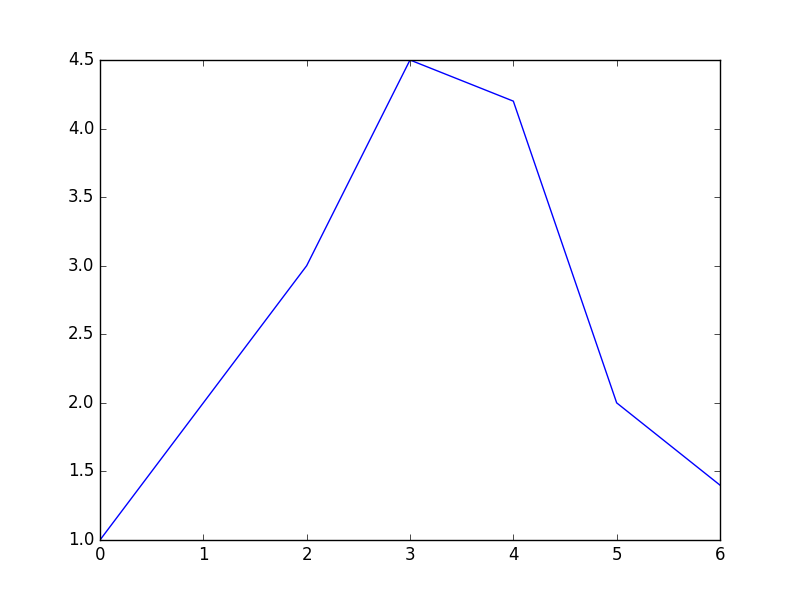
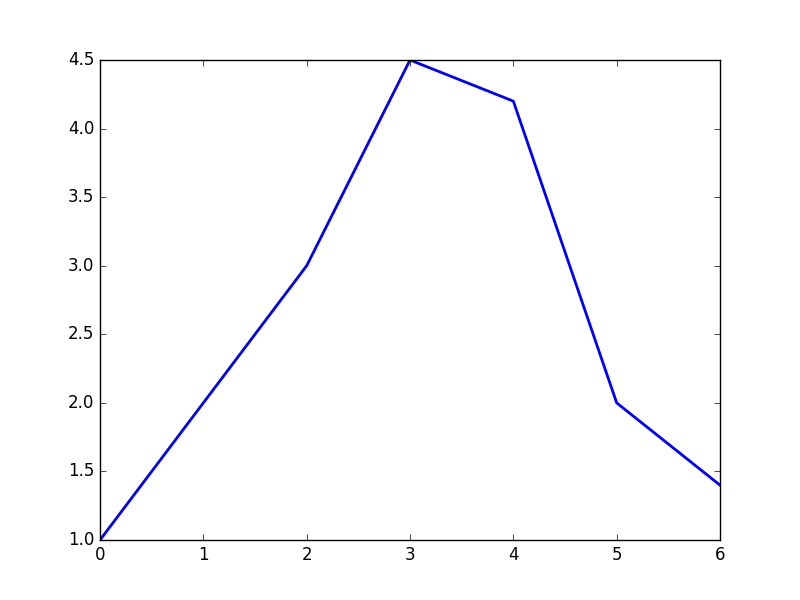
commit before fitbit changes

diff --git a/combined_strava.py b/combined_strava.py
@@ -11,6 +11,7 @@ import sys
 if os.name != 'posix':
     sys.exit('platform not supported')
 import psutil
+import logging
 
 from datetime import datetime
 from oled.device import ssd1306, sh1106
@@ -19,10 +20,6 @@ from PIL import ImageDraw, ImageFont
 from stravalib import Client
 from stravalib import unithelper
 from datetime import datetime, timedelta
-
-# Client ID: 10784
-# Client Secret:        816fa1e5705955d43f044687aee60fbba8cc24ec
-# Your Access Token:    0c293900673bf7ccf80180dfd3553a54fb8d9542
 
 ctd = 0
 ctc = 0
@@ -38,7 +35,7 @@ def greet():
 def calculate_stats():
 	global ctd, ctc, rtd, rtc, prbc, prbr, athlete, weekstart
 	
-	NAQ_ACCESS_TOKEN = '0c293900673bf7ccf80180dfd3553a54fb8d9542'
+	NAQ_ACCESS_TOKEN = 'xxxxxxxxccf80180dfd3553a54fb8d9542'
 	client = Client(access_token=NAQ_ACCESS_TOKEN)
 	athlete = client.get_athlete() # Get John's full athlete record
 
@@ -99,7 +96,11 @@ def stats(oled):
 		draw.text((0, 48), strava(), font=font2, fill=255)
 		#time.sleep(1)
 
+#def graph(oled):
+	
+
 def main():
+	logging.basicConfig()
 	calculate_stats()
 	oled = ssd1306(port=1, address=0x3C)
 	stats(oled)

diff --git a/matplot_1.py b/matplot_1.py
@@ -1,5 +1,20 @@
+#!/usr/bin/env python
+
 import matplotlib
 matplotlib.use('Agg')
 import matplotlib.pyplot as plt
-plt.plot([1,2,3])
+
+from oled.device import ssd1306, sh1106
+from oled.render import canvas
+from PIL import ImageDraw, Image
+
+plt.plot([1,2,3, 4.5,4.2,2,1.4], linewidth=2.0)
 plt.savefig('myfig1')
+device = ssd1306(port=1, address=0x3C)
+
+with canvas(device) as draw:
+    #logo = Image.open('examples/images/pi_logo.png')
+	logo = Image.open('myfig1.png')
+	logo_r = logo.resize((128,64), Image.BICUBIC)
+	logo_bw = logo_r.convert("1")
+	draw.bitmap((0, 0), logo_bw, fill=1)
